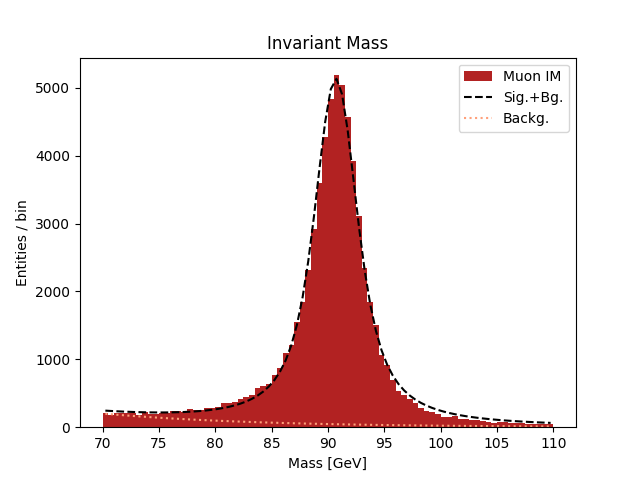
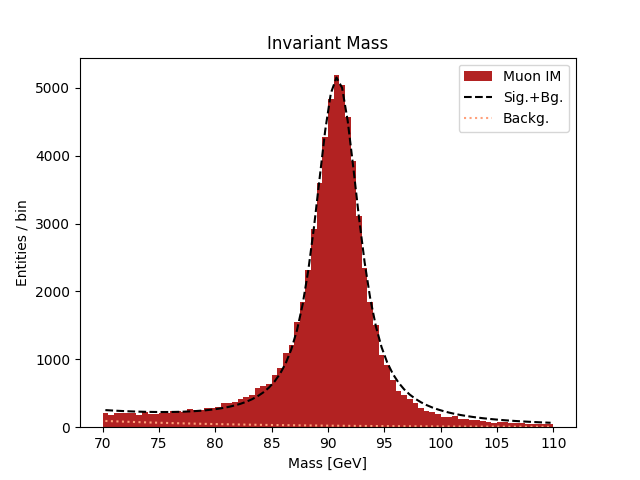
Cleanup.

diff --git a/plots/plot.py b/plots/plot.py
@@ -1,53 +1,38 @@
+# Importing math-related libraries
 import pandas as pd
 import matplotlib.pyplot as plt
 import numpy as np
 from scipy.special import wofz
-from scipy.special import voigt_profile
+from scipy.special import voigt_profile as f_voigt
 from scipy.optimize import curve_fit
 
-## Constraints for curve fitting.
-# Shifting x of both functions to center near histogram peak.
-x_shift_voigt = 90.7
-x_shift_fall = 68
-# Graph colors
-hist_clr = "firebrick"
-func_clr = "black"
-func_fall_clr = "lightsalmon"
 
-## Defining relevant functions
-def f_voigt(x, alpha, gamma):
-    sigma = alpha / np.sqrt(2 * np.log(2))
-    return np.real(wofz((x + 1j*gamma)/sigma/np.sqrt(2))) / sigma/np.sqrt(2*np.pi) 
-
-def f_fall(x, N, tau):
-    return N * np.exp(-x / tau) 
-
-def func(x, alpha, gamma, N, tau, A, s):
-    return A*( ((1 - s)*f_fall(x - x_shift_fall, N, tau)) 
-              + (s*f_voigt(x - x_shift_voigt, alpha, gamma)) )
-
-def func_fall(x, N, tau, A, s):
-    return A*((1 - s)*f_fall(x - x_shift_fall, N, tau))
-
-def func_voigt(x, alpha, gamma, A, s):
-    return A*(s*f_voigt(x - x_shift_voigt, alpha, gamma))
-
-
-
-## Initial objects
+## Plotting invariant mass on histogram.
+# Invariant mass data.
 imass_df = pd.read_csv(open("data\\invariant_mass.csv"))
-
-
-## Plotting invariant mass as histogram.
+# Histogram parameters.
 bins = 80
+# Plotting histogram.
 imass_hist = plt.hist(imass_df["Invariant Mass"],
                       bins = bins,
                       range = (70,110),
-                      color = hist_clr,
+                      color = "firebrick",
                       label = "Muon IM")
 plt.title("Invariant Mass")
 plt.xlabel("Mass [GeV]")
 plt.ylabel("Entities / bin")
+
+
+## Defining function for curve-fitting.
+def f_fall(x, xi_fall, N, tau): 
+    return N*np.exp(-(x-xi_fall)/tau)
+
+def f_fit(x, A, s, 
+          xi_voigt=0, alpha=None, gamma=None,
+          xi_fall=0, N=None, tau=None):
+    sigma = alpha / np.sqrt(2 * np.log(2))
+    return A*(  (1 - s)*f_fall(x, xi_fall, N, tau) 
+              + s*f_voigt(x - xi_voigt, sigma, gamma)  )
 
 
 ## Finding parameters to fit curve
@@ -58,15 +43,19 @@ for i in range(len(imass_hist[1]) - 1):
     x_vals.append(avg)
 # Every y value is simple the size of the size/height of the histogram bin. 
 y_vals = imass_hist[0]
-# Calculates best parameters using curve_fit().
-fit_param = curve_fit(func, 
+# Calculating parameters using curve_fit()
+param = curve_fit(f_fit, 
                       x_vals,
                       y_vals,
-                      maxfev = 3000)[0] # [alpha, gamma, N, tau, A, s]
+                      p0=[1, 1, 91, 1, 1, 69, 1, 1], # Guessing the x-shift of each function as 90.7 and 68.
+                      maxfev=3000)[0]
+# Printing calculated parameters.
 print(100*"*")
 print("Calculated Parameters:")
+print("[A, s, xi_voight, alpha,")
+print("gamma, xi_fall, N, tau]")
 print("")
-print(fit_param)
+print(param)
 print(100*"*")
 
 
@@ -74,8 +63,11 @@ print(100*"*")
 # Alterting list of x values to be a numpy array for plotting
 x_vals = np.asarray(x_vals)
 # Plotting the function, given the x values and parameters. 
-plt.plot(x_vals, func(x_vals,*fit_param), func_clr, linestyle='dashed',label="Sig.+Bg.")
-plt.plot(x_vals,func_fall(x_vals,*fit_param[2:]), func_fall_clr, linestyle='dotted',label="Backg.")
+plt.plot(x_vals, f_fit(x_vals,*param),
+         "black", linestyle='dashed',label="Sig.+Bg.")
+plt.plot(x_vals, param[1]*(1-param[2])*f_fall(x_vals,*param[-3:]),
+         "lightsalmon", linestyle='dotted',label="Backg.")
 plt.legend()
 # Saving histogram. 
 plt.savefig("plots\\muon_hist.png")
+
